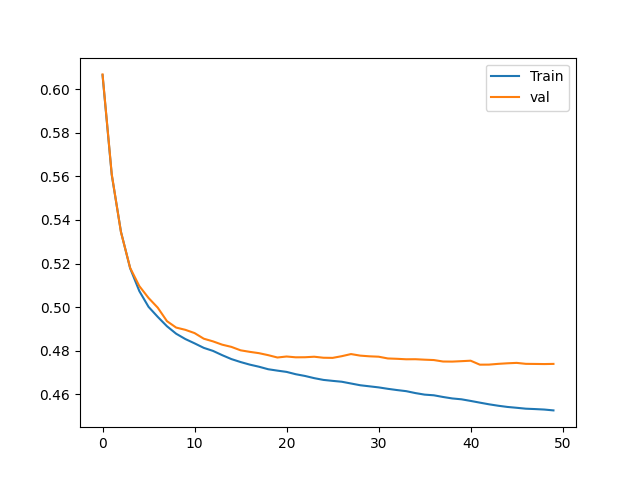
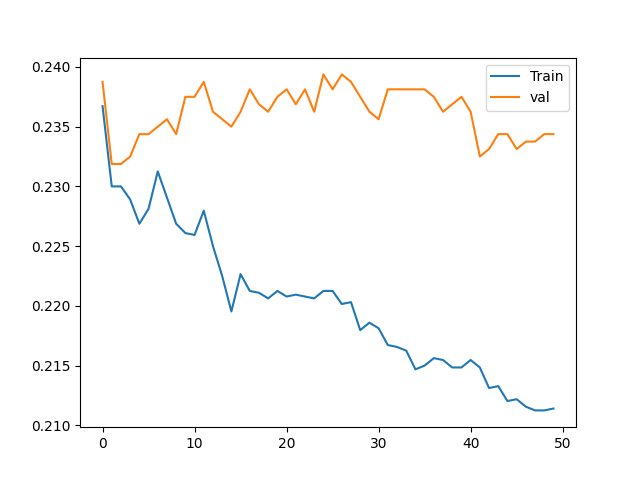
<add> Random Forest & XGBoost Model

diff --git a/analyze.py b/analyze.py
@@ -51,6 +51,7 @@ def lgbm(train_x, train_y, eval_set, test_x, test_y):
     binary_loss.set(ylabel='binary_logloss')
     binary_loss.figure.savefig("applyStatus_model_lgbm.png")
     print("lightGBM accuracy: {}%".format(round(accuracy, 3)*100))
+    
     # fig, ax = plt.subplots(figsize=(10, 12))
 
     # impt = plot_importance(lgb, ax=ax)
@@ -72,17 +73,7 @@ def xgb_boost(train_x, train_y, eval_set, test_x, test_y):
     import xgboost as xgb
     from xgboost import plot_importance
 
-    # params = {'max_depth' : 2,
-    #      'objective' : 'binary:logistic',
-    #      'eval_metric' : 'binary',
-    #      'early_stoppings' : 100 }
-
-    # xgb_train = xgb.DMatrix(data=train_x, label=train_y)
-    # xgb_val = xgb.DMatrix(data=val_x, label=val_y)
-    # xgb_test = xgb.DMatrix(data=test_x, label=test_y)
-    # xgb_model = xgb.train(params=params, dtrain=xgb_train, num_boost_round=50, evals=[(xgb_train, 'train'), (xgb_val, 'eval')])
-    # pred = xgb_model.predict(xgb_test)
-    loss_func = 'logloss'
+    loss_func = 'error'
     model = xgb.XGBClassifier(n_estimators=50, max_depth=2)
     model.fit(train_x, train_y, eval_set=[(train_x, train_y), (val_x, val_y)], eval_metric=loss_func, verbose=False)
     pred = model.predict(test_x)
@@ -97,15 +88,6 @@ def xgb_boost(train_x, train_y, eval_set, test_x, test_y):
     ax.plot(x_axis, results['validation_1'][loss_func], label='val')
     ax.legend()
     plt.savefig("applyStatus_model_xgboost.png")
-    # xgb = XGBClassifier(n_estimators=50, max_depth=2)
-    # xgb.fit(train_x, train_y, eval_metric='error', eval_set=eval_set)
-    # pred_y = xgb.predict(test_x)
-
-    # for i in range(len(pred_y)):
-    #     if pred_y[i] >= 0.5:
-    #         pred_y[i] = 1
-    #     else:
-    #         pred_y[i] = 0
 
 rdm_forest(train_x, train_y, eval_set, test_x, test_y)
 xgb_boost(train_x, train_y, eval_set, test_x, test_y)
